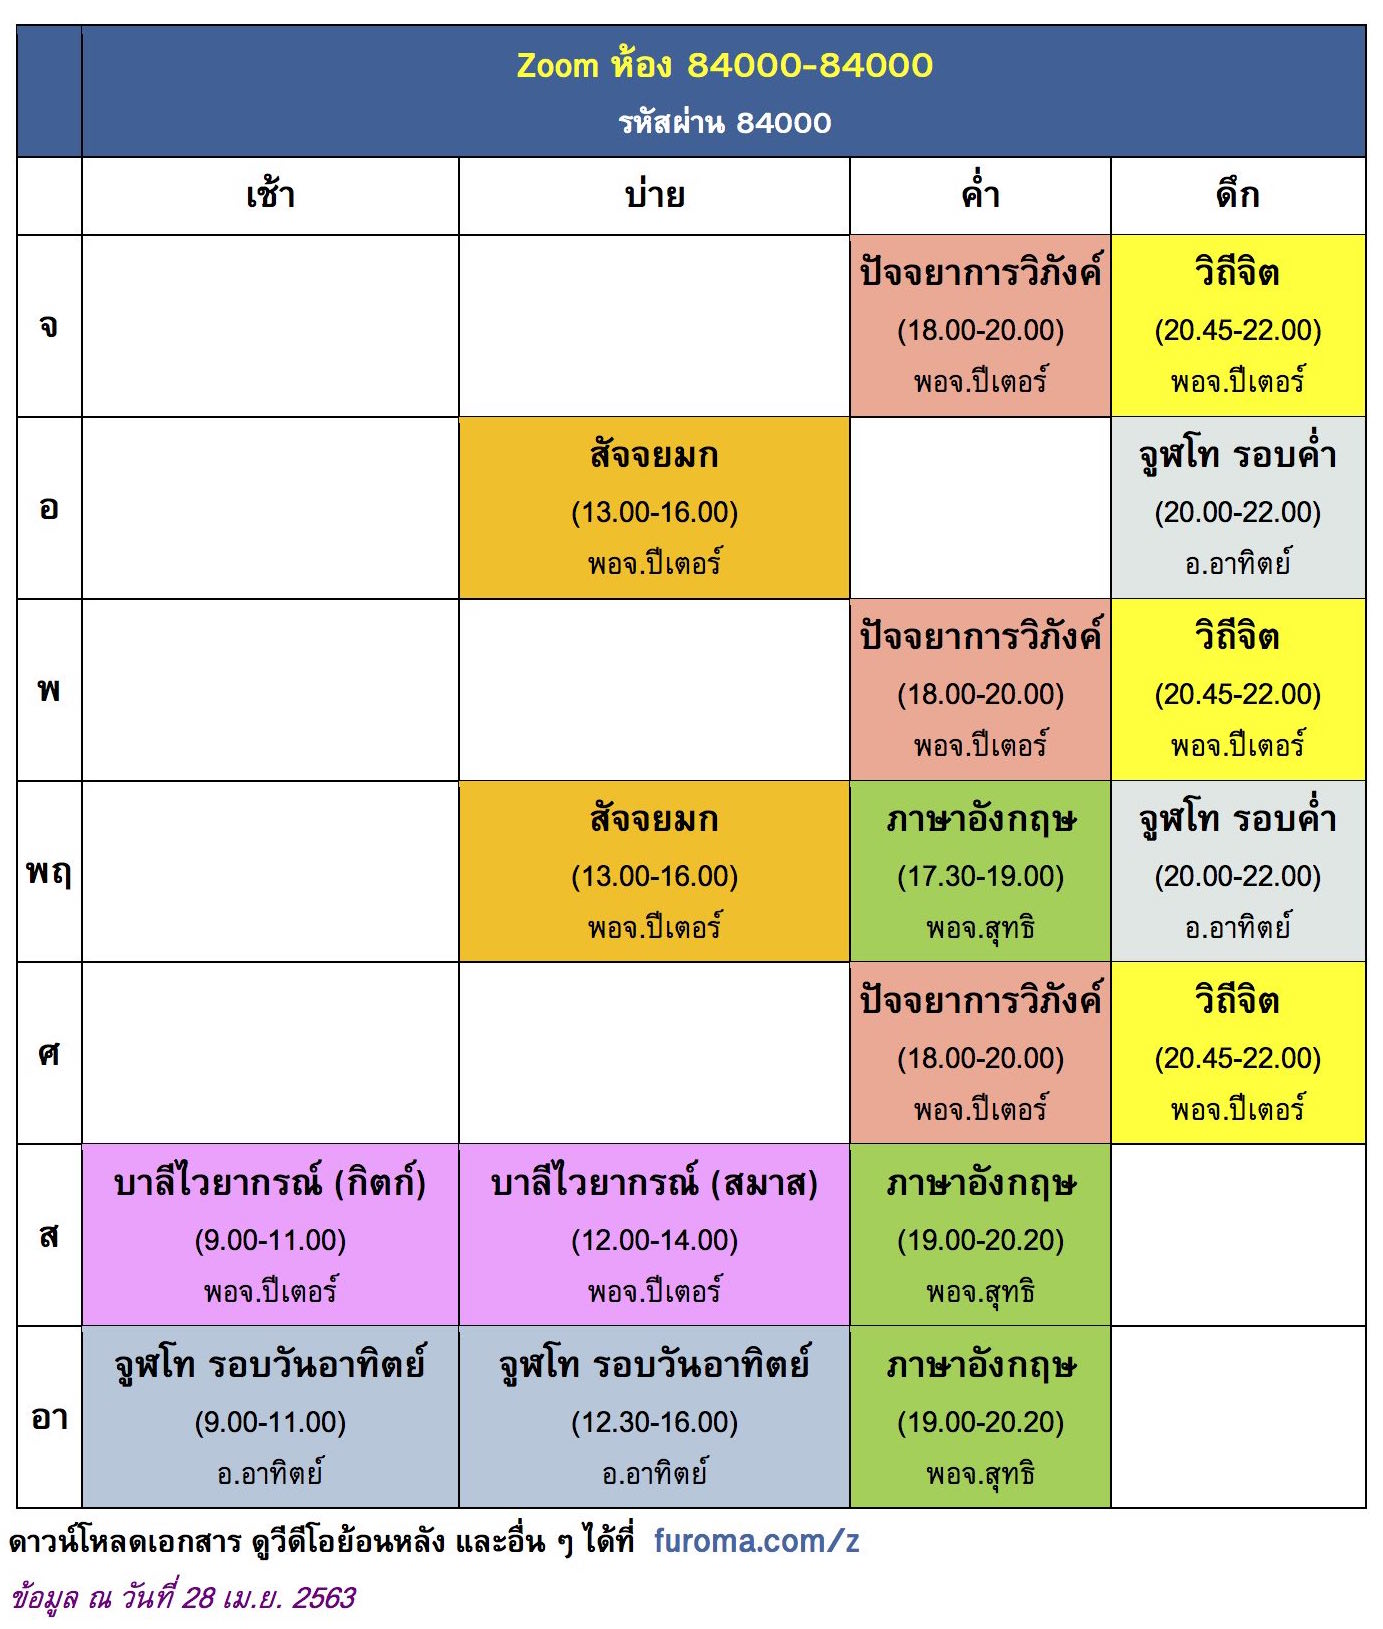
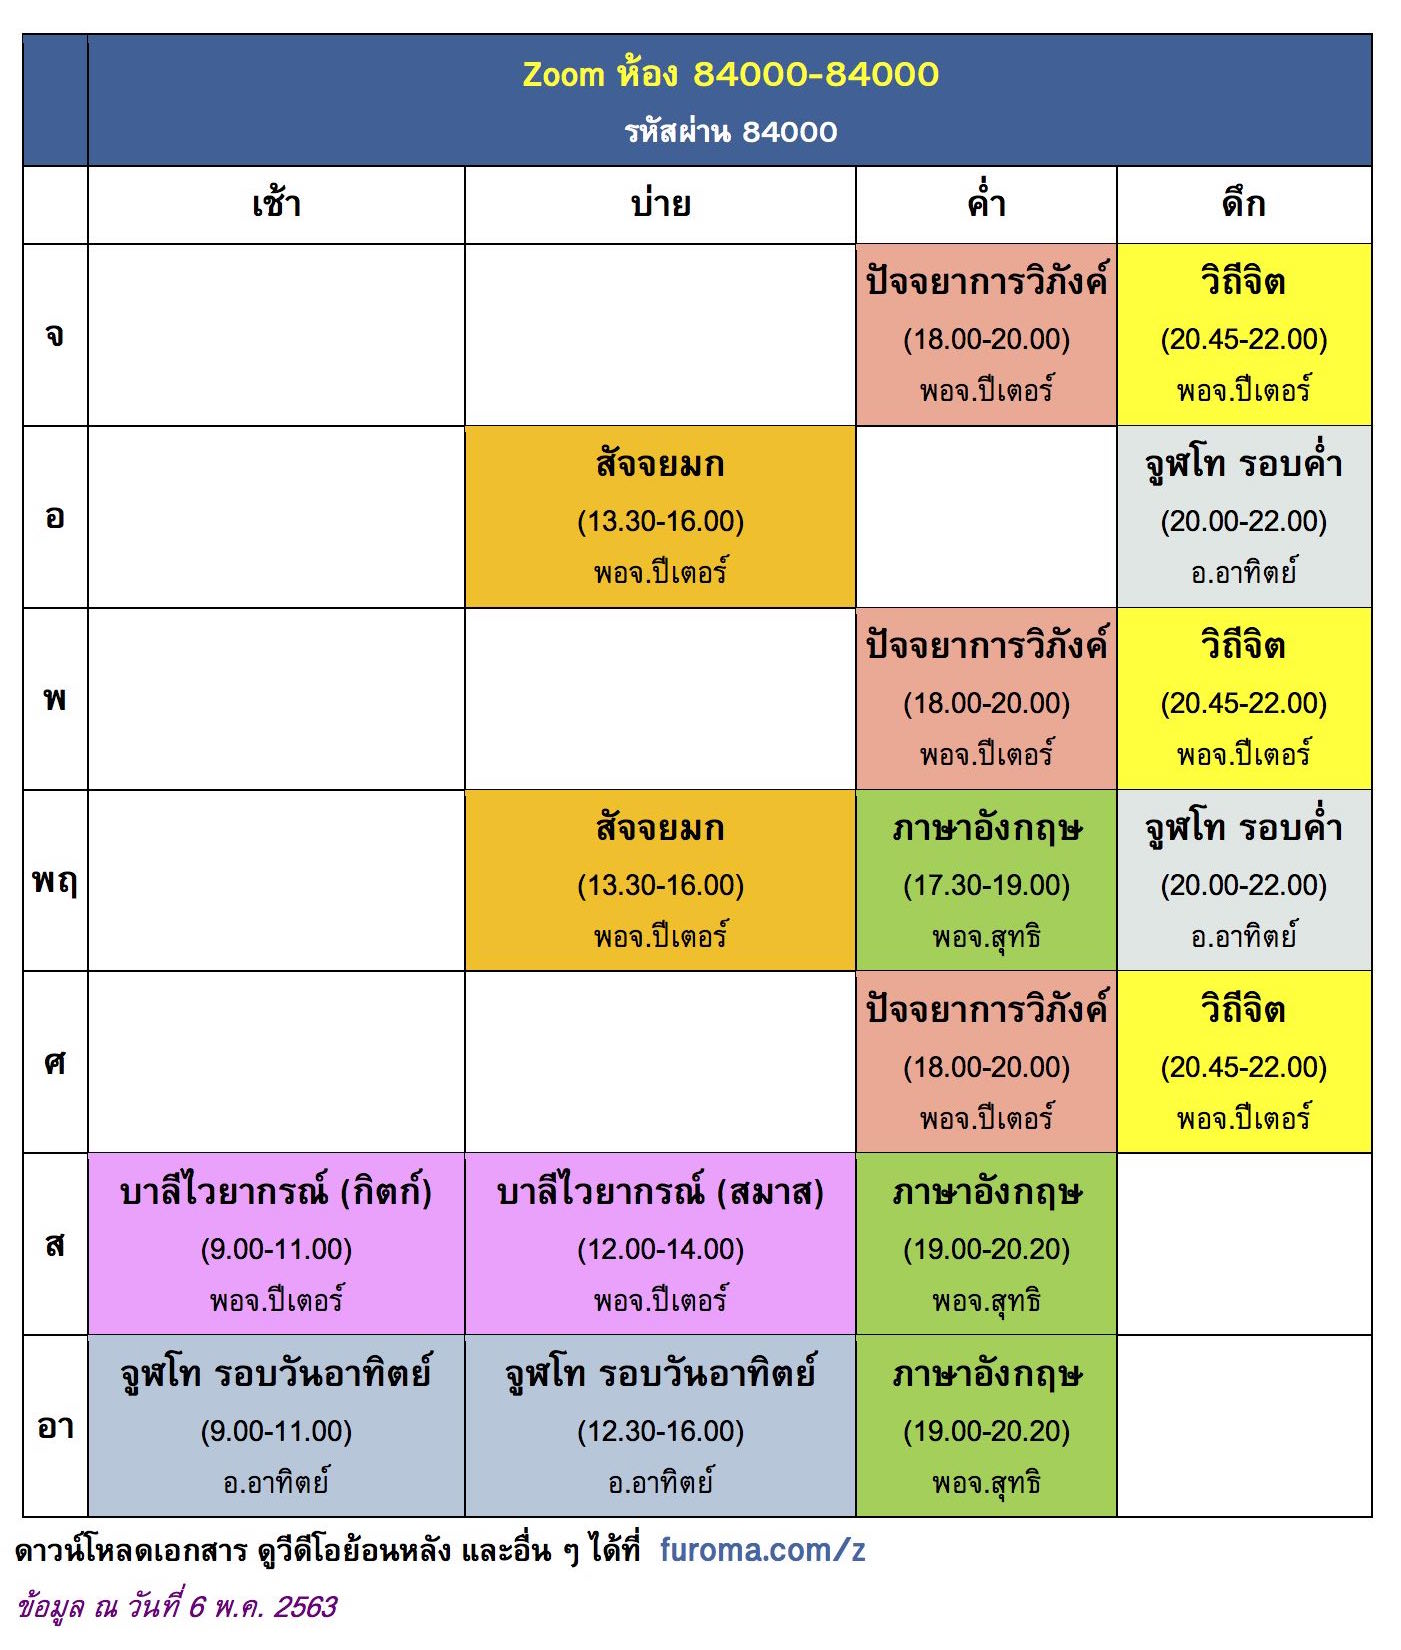
2020-05-06

Changed region(s): [[0.0, 0.0, 0.9949, 1.0], [0.4042, 0.2455, 0.5286, 0.3683], [0.3109, 0.2455, 0.3731, 0.2762]]

diff --git a/z/index.html b/z/index.html
@@ -7,7 +7,6 @@
     <meta charset="utf-8">
     <meta name="viewport" content="width=device-width, initial-scale=1">
 
-
     <link href="../_pic/favicon.png" rel="shortcut icon">
 
     <SCRIPT src=../_js/jquery-2.1.1.min.js></SCRIPT>
@@ -62,8 +61,8 @@
 <B>ปัจจยาการวิภังค์</B>: เลื่อนคลาสวันที่ 15 เม.ย. เป็นวันที่ 14 เม.ย.</SPAN><!---->
 
 <TABLE cellpadding=0 cellspacing=0 align=center><TR valign=top><TD>
-<A href=42000.jpg?04-28><IMG border=0 src="42000.jpg?04-28" width=500px height=600px /></A>
-<A href=84000.jpg?04-28><IMG border=0 src="84000.jpg?04-28" width=500px height=600px /></A></TABLE>
+<A href=42000.jpg?05-06><IMG border=0 src="42000.jpg?05-06" width=500px height=600px /></A>
+<A href=84000.jpg?05-06><IMG border=0 src="84000.jpg?05-06" width=500px height=600px /></A></TABLE>
 (คลิกที่รูป เพื่อดูตารางสอนที่ใหญ่ขึ้น)<BR/>
 
 <BR/><SPAN style="text-align:center; color:magenta; font-size:22px; font-weight:bold;">สื่อการเรียน</SPAN>
